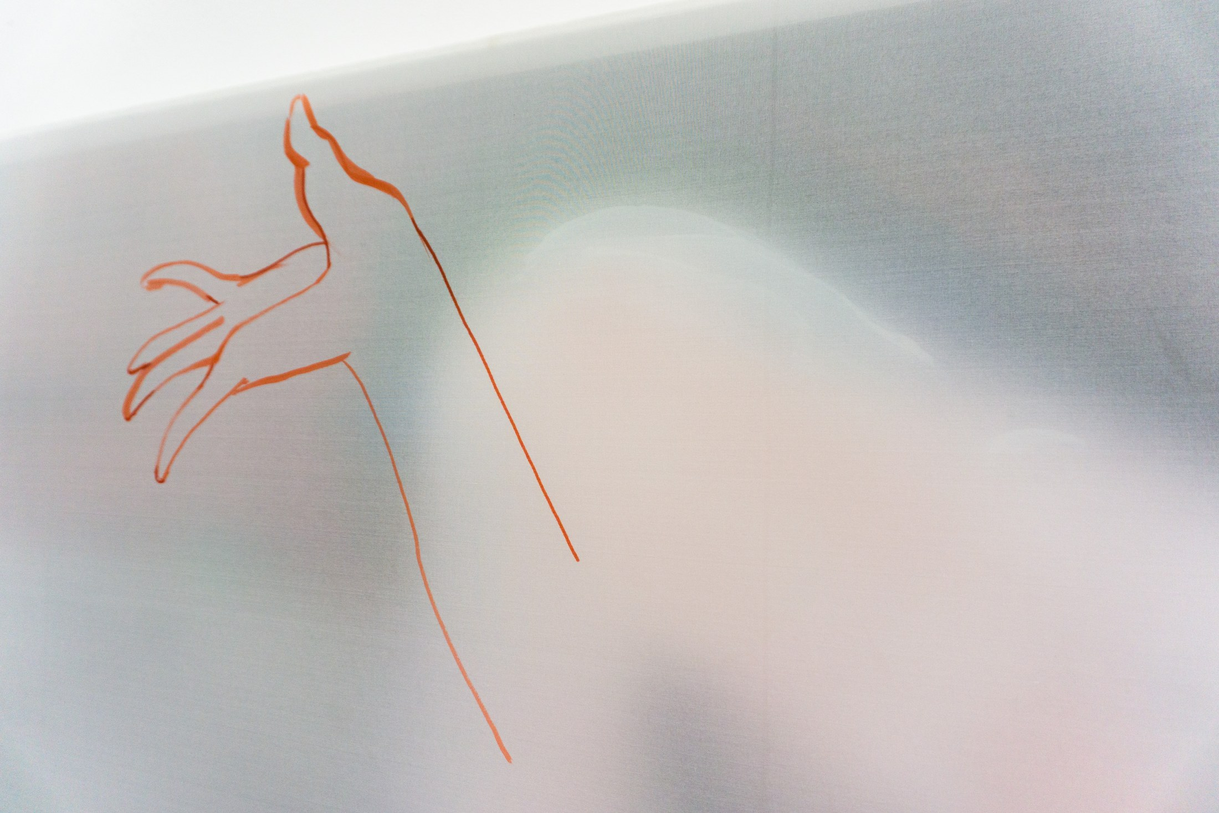
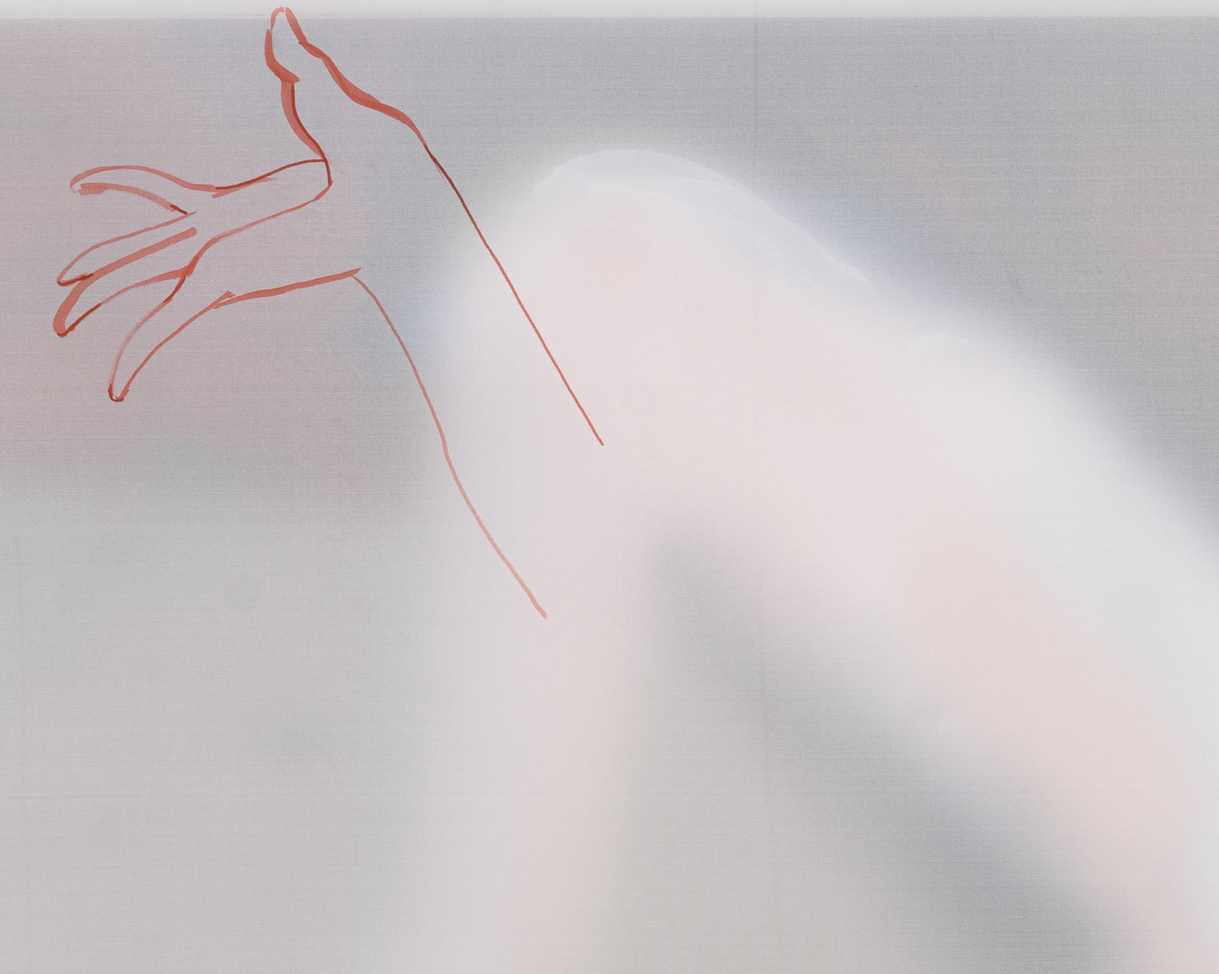
Add files via upload

diff --git a/index.html b/index.html
@@ -44,9 +44,10 @@
     the sole ordering authority, so these 8 slides simply run 1-8 in
     upload order. All 8 are photographs of the same body of work,
     "Ignore, 2026" (matching that series' established documentation
-    at works/ignore/), so each links to that existing detail page —
-    per the standing rule that multiple images of one work are not
-    deduplicated, each keeps its own independent slide.
+    at works/ignore/), but per the brief these slides are deliberately
+    NOT links and carry no caption — the homepage carousel is images
+    only, with no click-through to any artwork detail page and no
+    text under the images.
 
     Each image keeps its own original aspect ratio inside a shared
     viewing box (object-fit: contain in style.css) — never cropped,
@@ -75,75 +76,51 @@
         <ul class="carousel-track">
 
           <li class="carousel-slide is-active is-visible" data-index="0">
-            <a class="carousel-figure-link" href="works/ignore/" aria-label="View Ignore, 2026">
-              <span class="carousel-figure">
-                <img src="assets/images/home/home-01-ignore.jpg" alt="Ignore, Tong Yin" width="2400" height="1917" fetchpriority="high">
-              </span>
-            </a>
-            <p class="carousel-caption meta-text">Ignore, 2026</p>
+            <span class="carousel-figure">
+              <img src="assets/images/home/home-01-ignore.jpg" alt="Ignore, Tong Yin" width="2400" height="1917" fetchpriority="high">
+            </span>
           </li>
 
           <li class="carousel-slide" data-index="1">
-            <a class="carousel-figure-link" href="works/ignore/" aria-label="View Ignore, 2026">
-              <span class="carousel-figure">
-                <img src="assets/images/home/home-02-ignore.jpg" alt="Ignore, Tong Yin" width="2400" height="1917">
-              </span>
-            </a>
-            <p class="carousel-caption meta-text">Ignore, 2026</p>
+            <span class="carousel-figure">
+              <img src="assets/images/home/home-02-ignore.jpg" alt="Ignore, Tong Yin" width="2400" height="1917">
+            </span>
           </li>
 
           <li class="carousel-slide" data-index="2">
-            <a class="carousel-figure-link" href="works/ignore/" aria-label="View Ignore, 2026">
-              <span class="carousel-figure">
-                <img src="assets/images/home/home-03-ignore.jpg" alt="Ignore, Tong Yin" width="2400" height="1917">
-              </span>
-            </a>
-            <p class="carousel-caption meta-text">Ignore, 2026</p>
+            <span class="carousel-figure">
+              <img src="assets/images/home/home-03-ignore.jpg" alt="Ignore, Tong Yin" width="2400" height="1917">
+            </span>
           </li>
 
           <li class="carousel-slide" data-index="3">
-            <a class="carousel-figure-link" href="works/ignore/" aria-label="View Ignore, 2026">
-              <span class="carousel-figure">
-                <img src="assets/images/home/home-04-ignore.jpg" alt="Ignore, Tong Yin" width="2400" height="1917">
-              </span>
-            </a>
-            <p class="carousel-caption meta-text">Ignore, 2026</p>
+            <span class="carousel-figure">
+              <img src="assets/images/home/home-04-ignore.jpg" alt="Ignore, Tong Yin" width="2400" height="1917">
+            </span>
           </li>
 
           <li class="carousel-slide" data-index="4">
-            <a class="carousel-figure-link" href="works/ignore/" aria-label="View Ignore, 2026">
-              <span class="carousel-figure">
-                <img src="assets/images/home/home-05-ignore.jpg" alt="Ignore, Tong Yin" width="2400" height="1917">
-              </span>
-            </a>
-            <p class="carousel-caption meta-text">Ignore, 2026</p>
+            <span class="carousel-figure">
+              <img src="assets/images/home/home-05-ignore.jpg" alt="Ignore, Tong Yin" width="2400" height="1917">
+            </span>
           </li>
 
           <li class="carousel-slide" data-index="5">
-            <a class="carousel-figure-link" href="works/ignore/" aria-label="View Ignore, 2026">
-              <span class="carousel-figure">
-                <img src="assets/images/home/home-06-ignore.jpg" alt="Ignore, Tong Yin" width="2400" height="1917">
-              </span>
-            </a>
-            <p class="carousel-caption meta-text">Ignore, 2026</p>
+            <span class="carousel-figure">
+              <img src="assets/images/home/home-06-ignore.jpg" alt="Ignore, Tong Yin" width="2400" height="1917">
+            </span>
           </li>
 
           <li class="carousel-slide" data-index="6">
-            <a class="carousel-figure-link" href="works/ignore/" aria-label="View Ignore, 2026">
-              <span class="carousel-figure">
-                <img src="assets/images/home/home-07-ignore.jpg" alt="Ignore, Tong Yin" width="2400" height="1917">
-              </span>
-            </a>
-            <p class="carousel-caption meta-text">Ignore, 2026</p>
+            <span class="carousel-figure">
+              <img src="assets/images/home/home-07-ignore.jpg" alt="Ignore, Tong Yin" width="2400" height="1917">
+            </span>
           </li>
 
           <li class="carousel-slide" data-index="7">
-            <a class="carousel-figure-link" href="works/ignore/" aria-label="View Ignore, 2026">
-              <span class="carousel-figure">
-                <img src="assets/images/home/home-08-ignore.jpg" alt="Ignore, Tong Yin" width="2400" height="1917">
-              </span>
-            </a>
-            <p class="carousel-caption meta-text">Ignore, 2026</p>
+            <span class="carousel-figure">
+              <img src="assets/images/home/home-08-ignore.jpg" alt="Ignore, Tong Yin" width="2400" height="1917">
+            </span>
           </li>
 
         </ul>

diff --git a/works/calling-a-deer-a-horse/index.html b/works/calling-a-deer-a-horse/index.html
@@ -52,10 +52,14 @@
       here uses the same sitewide neo-grotesk as everywhere else (no
       serif) — see --font-wordmark in style.css.
 
-      The three carousel images are real photographs of this one work
-      — a full frontal view, then a right-arm/hand detail, then a
-      left-hand/upper-section detail, in that fixed order. All three
-      load eagerly and share one fixed-size stage (style.css), so
+      The carousel images are real photographs of this one work — a
+      full frontal view, then a left-hand/open-hand detail, then a
+      right-arm/bent-arm detail, in that fixed order (an installation
+      view, showing the work mounted on its freestanding wall in the
+      exhibition space, is intended as a fourth slide after this one
+      — add it as data-index="3" the same way the others are added
+      below once that photograph is supplied). All slides load
+      eagerly and share one fixed-size stage (style.css), so
       switching between them never changes the page's layout.
 
       Navigating between these three images is the image itself: the
@@ -102,10 +106,10 @@
               <img src="../../assets/images/works/calling-a-deer-a-horse-full.jpg" alt="Calling A Deer A Horse, Tong Yin — full view" width="2200" height="1757">
             </li>
             <li class="work-carousel-slide" data-index="1">
-              <img src="../../assets/images/works/calling-a-deer-a-horse-detail-right.jpg" alt="Calling A Deer A Horse, Tong Yin — detail, right arm and hand" width="1508" height="1126">
+              <img src="../../assets/images/works/calling-a-deer-a-horse-detail-left.jpg" alt="Calling A Deer A Horse, Tong Yin — detail, left hand and upper section" width="2200" height="1757">
             </li>
             <li class="work-carousel-slide" data-index="2">
-              <img src="../../assets/images/works/calling-a-deer-a-horse-detail-left.jpg" alt="Calling A Deer A Horse, Tong Yin — detail, left hand and upper section" width="2200" height="1467">
+              <img src="../../assets/images/works/calling-a-deer-a-horse-detail-right.jpg" alt="Calling A Deer A Horse, Tong Yin — detail, right arm and hand" width="2200" height="1757">
             </li>
           </ul>
         </div>

diff --git a/works/the-stranger/stranger-03/index.html b/works/the-stranger/stranger-03/index.html
@@ -3,8 +3,8 @@
 <head>
 <meta charset="UTF-8">
 <meta name="viewport" content="width=device-width, initial-scale=1.0">
-<title>The Stranger — Tong Yin</title>
-<meta name="description" content="The Stranger, 2026 — a work by Tong Yin.">
+<title>The Stranger 3 — Tong Yin</title>
+<meta name="description" content="The Stranger 3, 2026 — a work by Tong Yin.">
 <link rel="stylesheet" href="../../../assets/css/style.css">
 </head>
 <body class="work-detail-page">
@@ -60,9 +60,9 @@
           </nav>
         </div>
         <div class="work-detail-info">
-          <p class="work-detail-title">The Stranger</p>
-          <p class="work-detail-meta">Acrylic on acrylic sheet,<br>Chinese silk</p>
-          <p class="work-detail-meta">28.9 × 30 cm</p>
+          <p class="work-detail-title">The Stranger 3</p>
+          <p class="work-detail-meta">Acrylic on acrylic sheet,<br>acrylic on Chinese silk</p>
+          <p class="work-detail-meta">115 × 77 cm</p>
           <p class="work-detail-meta">2026</p>
         </div>
       </aside>

diff --git a/works/ignore/ignore-02/index.html b/works/ignore/ignore-02/index.html
@@ -49,9 +49,8 @@
       A Deer A Horse; [data-work-carousel] in main.js is page-scoped,
       so it applies here unmodified.
 
-      No photography credit is shown: unlike Calling A Deer A Horse,
-      no photographer credit has been assigned to this work in the
-      site's data, and the brief is explicit not to invent one.
+      Photography by Bonsai Peng — same credit as Calling A Deer A
+      Horse, in the same .work-detail-credit position/styling.
     -->
     <div class="work-detail">
       <aside class="work-detail-side">
@@ -70,6 +69,7 @@
           <p class="work-detail-meta">Acrylic on Chinese silk,<br>acrylic on canvas board,<br>gold ink</p>
           <p class="work-detail-meta">33 × 27 cm</p>
           <p class="work-detail-meta">2026</p>
+          <p class="work-detail-credit">Photography by Bonsai Peng</p>
         </div>
       </aside>
 

diff --git a/works/ignore/ignore-01/index.html b/works/ignore/ignore-01/index.html
@@ -48,9 +48,8 @@
       [data-work-carousel] in main.js is page-scoped, so it applies
       here unmodified.
 
-      No photography credit is shown: unlike Calling A Deer A Horse,
-      no photographer credit has been assigned to this work in the
-      site's data, and the brief is explicit not to invent one.
+      Photography by Bonsai Peng — same credit as Calling A Deer A
+      Horse, in the same .work-detail-credit position/styling.
     -->
     <div class="work-detail">
       <aside class="work-detail-side">
@@ -69,6 +68,7 @@
           <p class="work-detail-meta">Acrylic on Chinese silk,<br>acrylic on cardboard,<br>gold ink</p>
           <p class="work-detail-meta">33 × 27 cm</p>
           <p class="work-detail-meta">2026</p>
+          <p class="work-detail-credit">Photography by Bonsai Peng</p>
         </div>
       </aside>
 

diff --git a/assets/js/main.js b/assets/js/main.js
@@ -11,9 +11,10 @@
   // Homepage artwork carousel. One slide is shown at a time
   // (.carousel-slide.is-active); changing slides is a calm, sequential
   // cross-fade — the current slide fades out, then the next slide
-  // fades in — never a slide/zoom/bounce. Each slide carries its own
-  // caption and its own link (or no link, for a slide with no detail
-  // page yet), so swapping slides never needs to touch any text.
+  // fades in — never a slide/zoom/bounce. Slides are images only: no
+  // caption, and no click-through link to any artwork detail page —
+  // clicking an image does nothing (only the prev/next arrows, arrow
+  // keys, and swipe move between slides).
   var carousel = document.querySelector('[data-carousel]');
   if (!carousel) return;
 

diff --git a/works/the-stranger/stranger-04/index.html b/works/the-stranger/stranger-04/index.html
@@ -62,8 +62,8 @@
         </div>
         <div class="work-detail-info">
           <p class="work-detail-title">The Stranger</p>
-          <p class="work-detail-meta">Acrylic on acrylic sheet,<br>Chinese silk</p>
-          <p class="work-detail-meta">115 × 77 cm</p>
+          <p class="work-detail-meta">Acrylic on acrylic sheet,<br>acrylic on Chinese silk</p>
+          <p class="work-detail-meta">28.9 × 30 cm</p>
           <p class="work-detail-meta">2026</p>
         </div>
       </aside>
